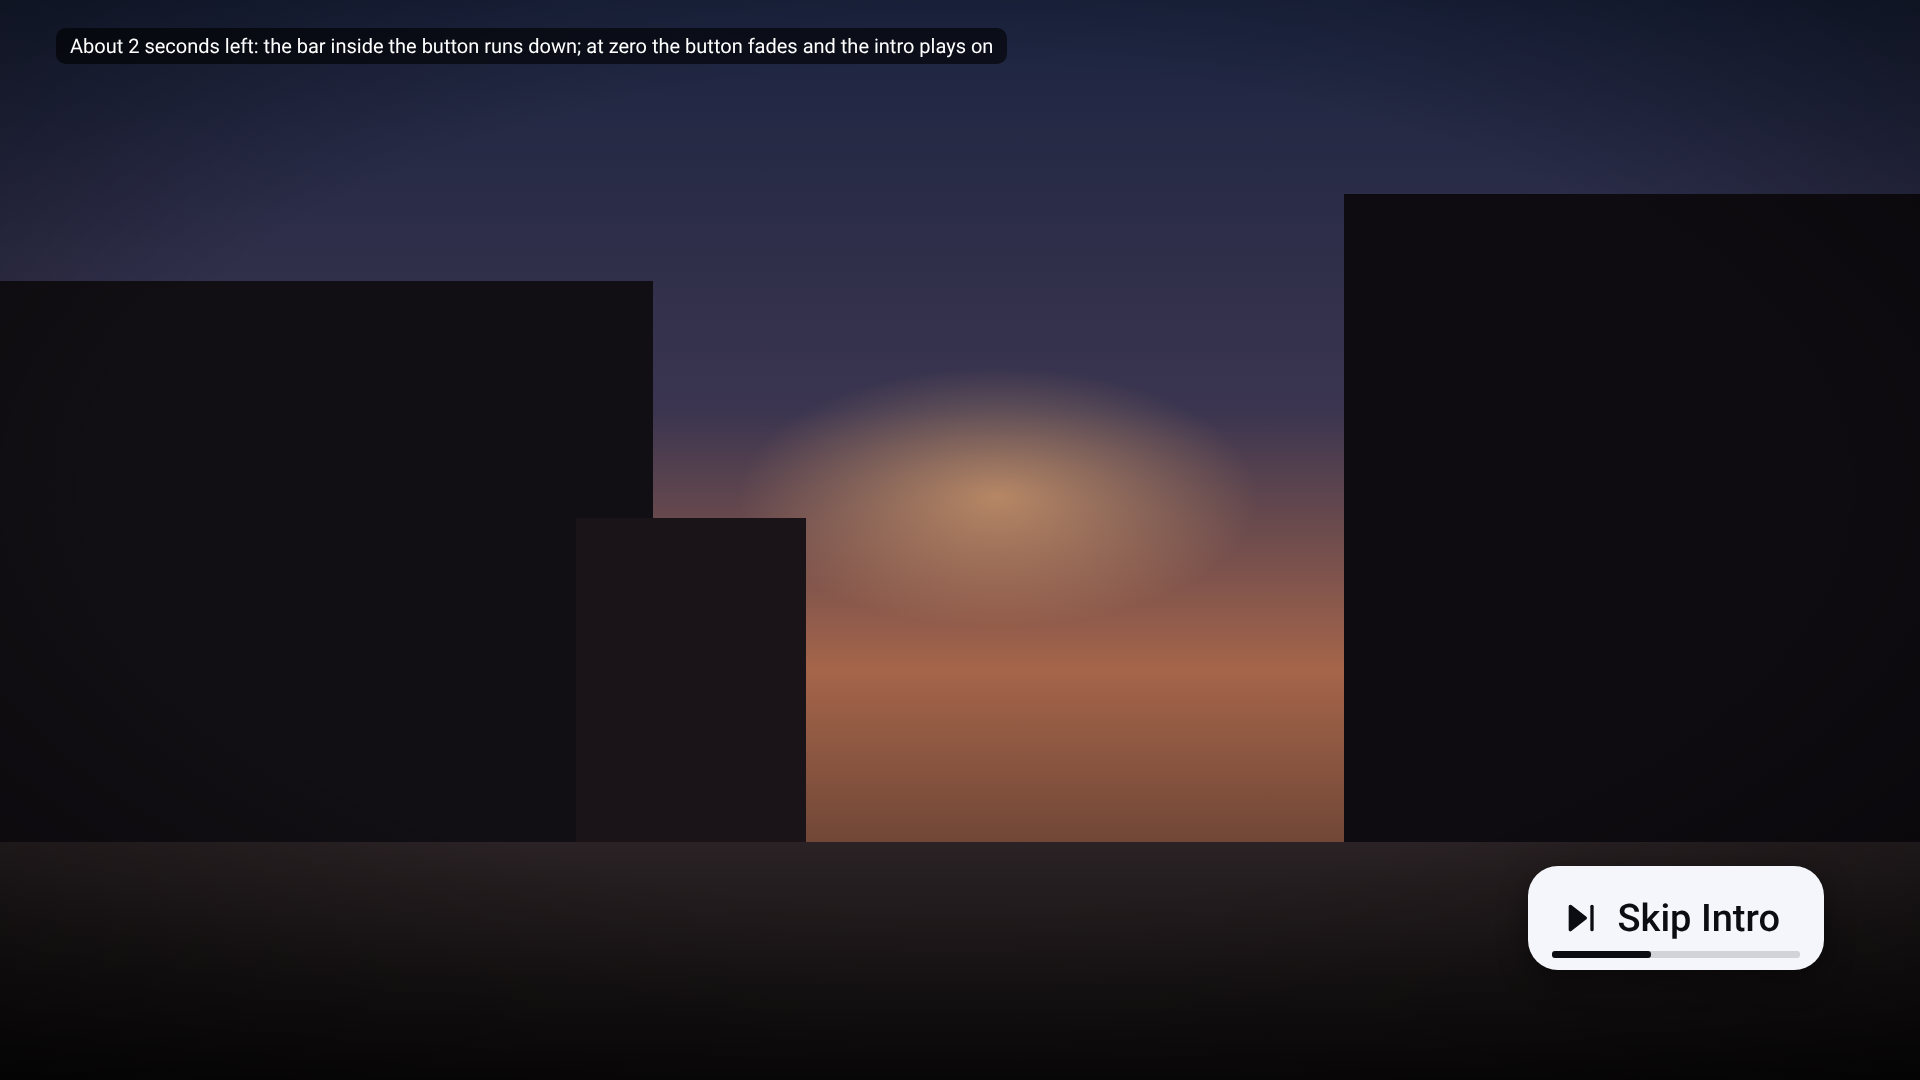
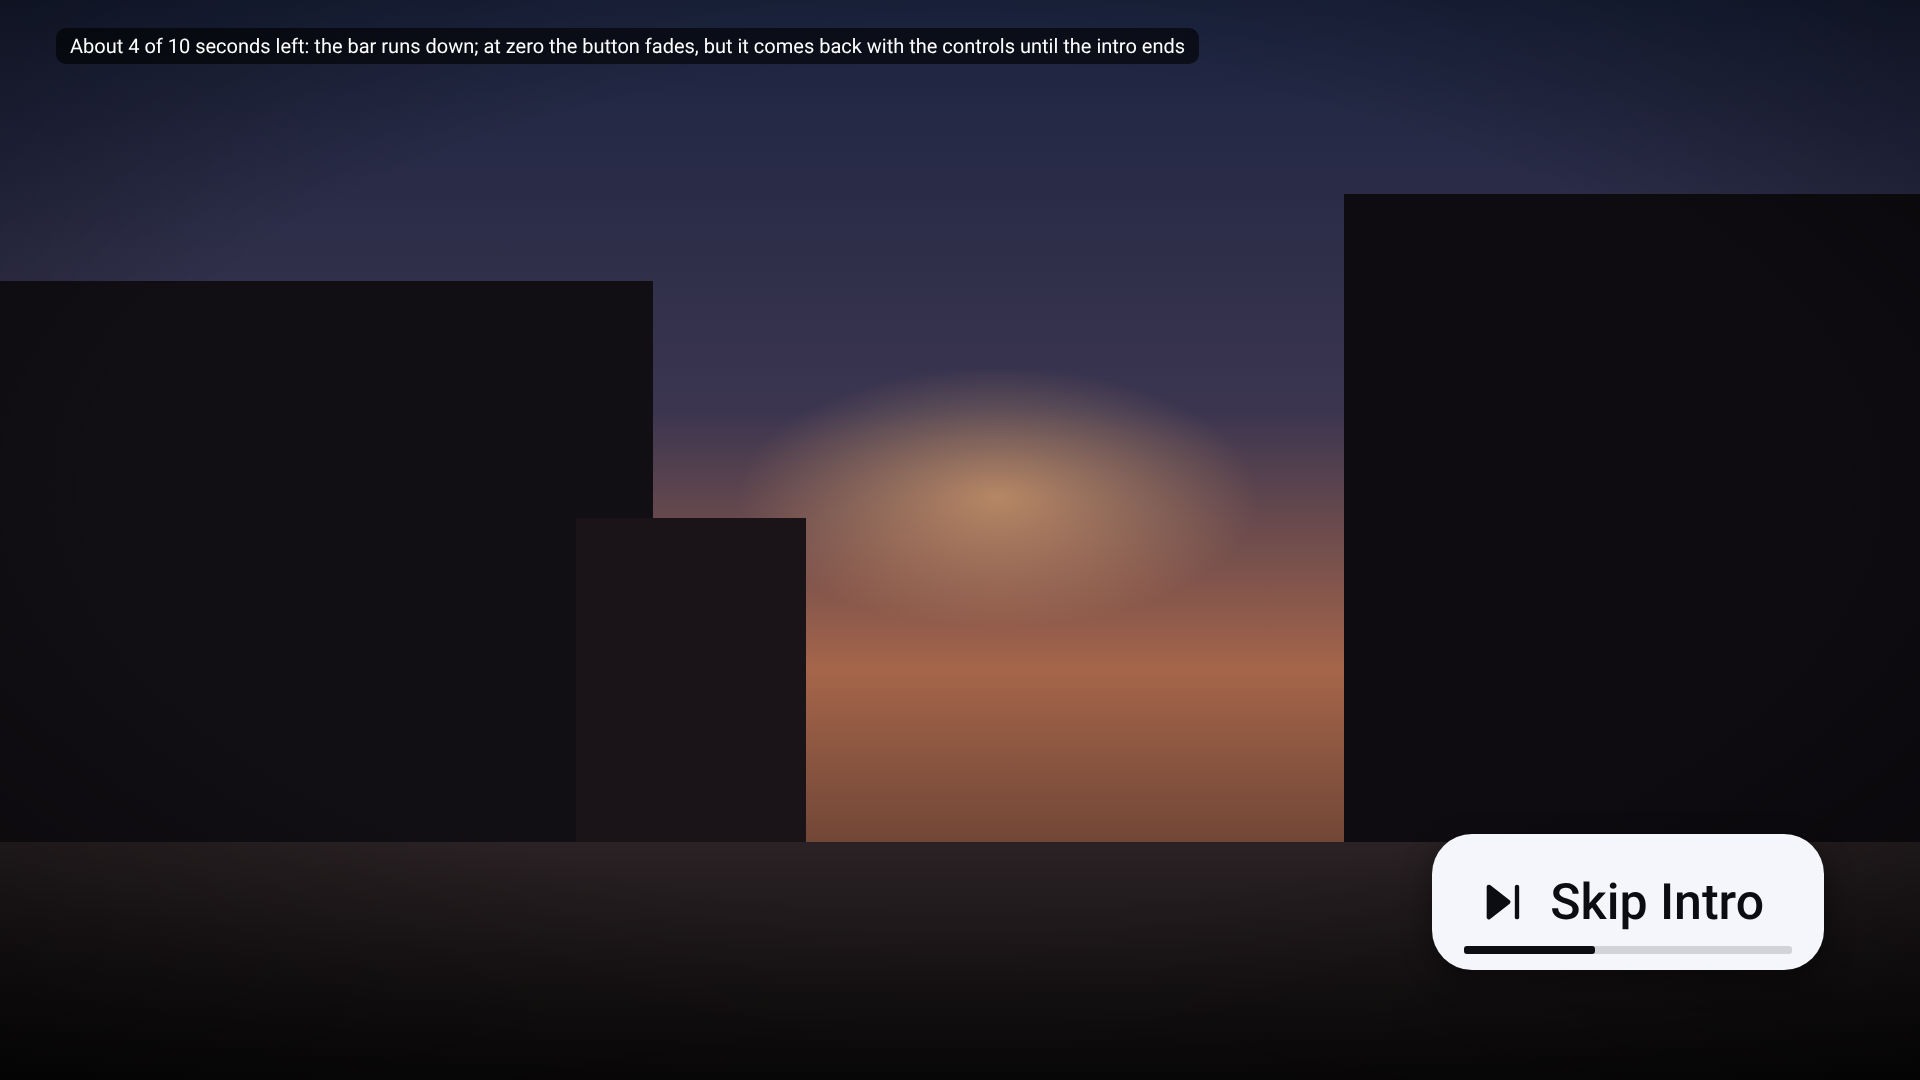
Skip button: larger again; 10 s timing with return via controls
Claude-Session: https://claude.ai/code/session_01FtDZqamY6pdaUKwc7fqgiA

Changed region(s): [[0.7188, 0.7639, 0.9688, 0.9167], [0.0625, 0.0, 0.625, 0.0611]]

diff --git a/docs/design/proposals/skip-button/render.js b/docs/design/proposals/skip-button/render.js
@@ -9,14 +9,14 @@ const P = { skip: '<path d="M5 5l9 7-9 7z" fill="currentColor"/><path d="M18 5v1
 const ic = (k, s = 30) => `<svg width="${s}" height="${s}" viewBox="0 0 24 24" fill="none" stroke="currentColor" stroke-width="2" stroke-linecap="round" stroke-linejoin="round">${P[k]}</svg>`;
 // A stand-in film frame (no real artwork): dusky street scene in gradients.
 const frame = `<div class="video"><i class="sky"></i><i class="glow"></i><i class="b1"></i><i class="b2"></i><i class="b3"></i><i class="road"></i><i class="vig"></i></div>`;
-const skip = (left, where) => `<div class="skip ${where}"><span>${ic('skip', 40)}Skip Intro</span><i class="cd"><b style="width:${left * 100}%"></b></i></div>`;
+const skip = (left, where) => `<div class="skip ${where}"><span>${ic('skip', 52)}Skip Intro</span><i class="cd"><b style="width:${left * 100}%"></b></i></div>`;
 const hud = `<div class="htitle">Slow Horses</div><div class="hsub">Season 5 · Episode 2 · Opening titles</div>
   <div class="hud"><div class="hb">${ic('pause', 34)}</div><div class="bar"><div class="buf"></div><div class="played"></div><div class="thumb"></div>
   <div class="bubble"><b>00:01:12</b><span>Intro</span></div></div><div class="hb">${ic('gear', 30)}<span>Settings</span></div></div>`;
 const shots = [
   ['01-appears-bottom-right.png', frame + skip(1, 'br'), 'Intro starts: Skip Intro appears bottom right, already selected — OK skips. Controls stay hidden.'],
-  ['02-countdown.png', frame + skip(.4, 'br'), 'About 2 seconds left: the bar inside the button runs down; at zero the button fades and the intro plays on'],
-  ['03-with-controls-open.png', frame + `<div class="shade"></div>` + hud + skip(.7, 'br up'), 'Controls opened while it shows: the button sits just above them, still selected; Down goes to the controls'],
+  ['02-countdown.png', frame + skip(.4, 'br'), 'About 4 of 10 seconds left: the bar runs down; at zero the button fades, but it comes back with the controls until the intro ends'],
+  ['03-with-controls-open.png', frame + `<div class="shade"></div>` + hud + skip(.7, 'br up'), 'Controls open during the intro (even after the button faded): Skip Intro sits just above them, selected; Down goes to the controls'],
 ];
 const css = `${font(400)}${font(500)}${font(700)}*{box-sizing:border-box;margin:0}
 body{width:1920px;height:1080px;overflow:hidden;font-family:R;color:#fff;position:relative;background:#000}
@@ -27,11 +27,11 @@ body{width:1920px;height:1080px;overflow:hidden;font-family:R;color:#fff;positio
 .b3{left:30%;bottom:22%;width:12%;height:30%;background:#1a1418}.road{left:0;right:0;bottom:0;height:22%;background:linear-gradient(180deg,#2a2224,#0c0a0b)}
 .vig{inset:0;background:radial-gradient(ellipse 80% 70% at 50% 45%,rgba(0,0,0,0) 55%,rgba(0,0,0,.6))}
 .shade{position:absolute;inset:0;background:linear-gradient(0deg,rgba(0,0,0,.75) 0%,rgba(0,0,0,0) 45%)}
-.skip{position:absolute;height:104px;padding:0 44px 0 34px;border-radius:30px;background:#F4F6FB;color:#0B0D12;font-size:38px;font-weight:500;
+.skip{position:absolute;height:136px;padding:0 60px 0 46px;border-radius:40px;background:#F4F6FB;color:#0B0D12;font-size:50px;font-weight:500;
   display:flex;align-items:center;box-shadow:0 10px 30px rgba(0,0,0,.45);overflow:hidden}
-.skip span{display:flex;align-items:center;gap:16px}
-.skip .cd{position:absolute;left:24px;right:24px;bottom:12px;height:7px;border-radius:3px;background:rgba(11,13,18,.15)}.skip .cd b{display:block;height:100%;border-radius:3px;background:#0B0D12}
-.skip.br{right:96px;bottom:110px}.skip.br.up{bottom:260px}.skip.bl{left:96px;bottom:110px}
+.skip span{display:flex;align-items:center;gap:20px}
+.skip .cd{position:absolute;left:32px;right:32px;bottom:16px;height:8px;border-radius:3px;background:rgba(11,13,18,.15)}.skip .cd b{display:block;height:100%;border-radius:3px;background:#0B0D12}
+.skip.br{right:96px;bottom:110px}.skip.br.up{bottom:270px}.skip.bl{left:96px;bottom:110px}
 .htitle{position:absolute;left:80px;top:690px;font-size:60px;font-weight:700}.hsub{position:absolute;left:84px;top:768px;font-size:26px}
 .hud{position:absolute;left:70px;right:70px;bottom:90px;height:80px;display:flex;align-items:center;gap:26px}
 .hb{height:72px;min-width:72px;padding:0 20px;border-radius:22px;background:rgba(22,24,28,.62);border:2px solid rgba(255,255,255,.22);display:flex;align-items:center;justify-content:center;gap:10px;font-size:22px;font-weight:500}

diff --git a/docs/0.155/OWNER_NOTES.md b/docs/0.155/OWNER_NOTES.md
@@ -207,4 +207,10 @@ Codex's branch `codex/0155-code-2026-11-04` (DP-01…DP-07, TV-only stages). **N
   to the controls.
 - **Owner (4 Nov 2026):** bottom right, and bigger. Revised `01`–`03`: about 104px tall with 38px text (was 72px / 26px);
   bottom-left alternative dropped.
-- **Status:** placement decided; size, 5-second timing and look awaiting the owner's approval — then awaiting go-ahead to code.
+- **Owner (4 Nov 2026):** look liked; still needs to be quite a lot bigger. Revised `01`–`03`: about 136px tall with 50px
+  text.
+- **Timing (Claude, from other players):** Plex shows its button for about 3–5 seconds (a common complaint: too short)
+  and brings it back with the on-screen controls; Jellyfin's Intro Skipper can show it for the whole intro. Proposed:
+  **10 seconds** with the countdown, then it fades, but opening the controls brings it back (selected) until the
+  intro ends.
+- **Status:** placement and look decided; size and timing awaiting the owner's approval — then awaiting go-ahead to code.
